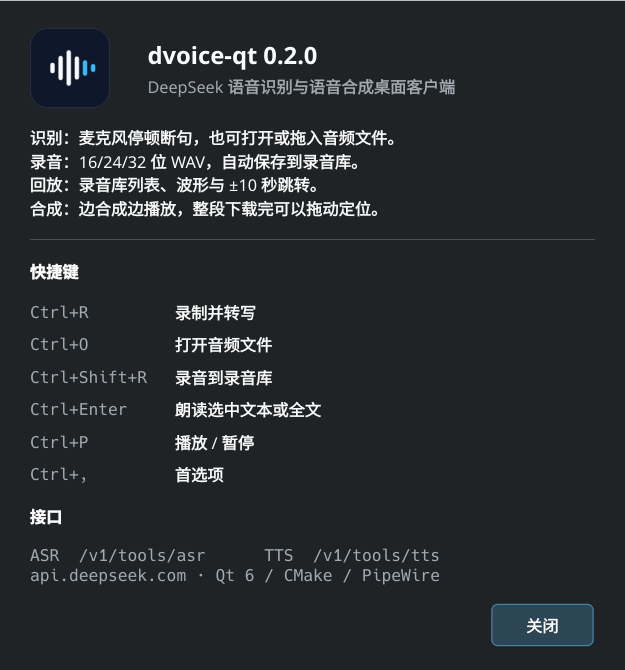
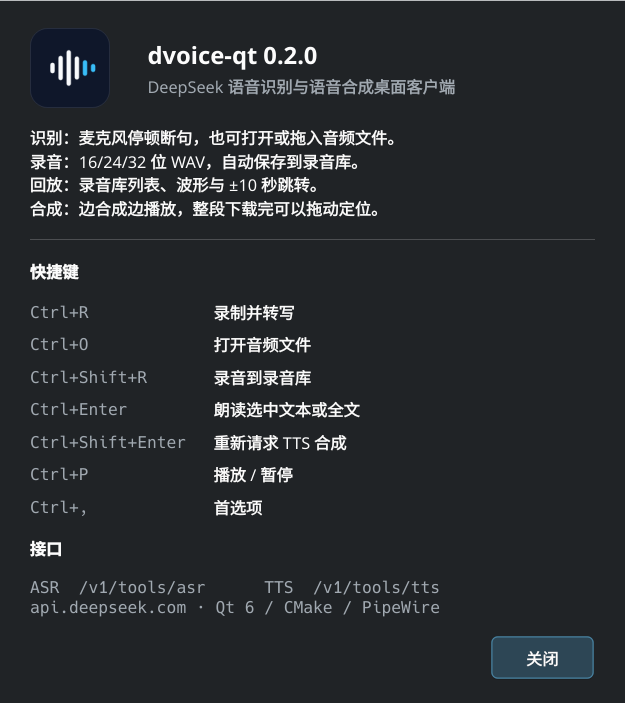
Fix TTS playback glitches and add explicit resynthesize
- Guard flushWrites against synchronous stateChanged reentrancy that
  duplicated audio and left a trailing byte, causing noise bursts/hangs
- Frame-aligned writes, 250ms prebuffer, 600ms sink buffer, optional
  DV_DEBUG_AUDIO tracing
- Add a visible 重新合成 button and Ctrl+Shift+Enter action that discards
  the current audio and requests TTS again

diff --git a/src/core/player.cpp b/src/core/player.cpp
@@ -3,12 +3,44 @@
 #include <QAudioFormat>
 #include <QAudioSink>
 #include <QBuffer>
+#include <QTextStream>
 #include <QTimer>
 
 namespace {
 constexpr int kSampleRate = 24000;
 constexpr int kChannels = 1;
 constexpr int kBytesPerMs = kSampleRate * kChannels * 2 / 1000; // 48
+constexpr int kFrameBytes = kChannels * 2;
+constexpr int kPrebufferMs = 250;
+constexpr int kSinkBufferMs = 600;
+
+bool audioTraceEnabled()
+{
+    static const bool enabled = qEnvironmentVariableIsSet("DV_DEBUG_AUDIO");
+    return enabled;
+}
+
+void trace(const QString &message)
+{
+    if (!audioTraceEnabled())
+        return;
+    QTextStream(stderr) << "[audio] " << message << '\n';
+}
+
+QString stateName(QAudio::State state)
+{
+    switch (state) {
+    case QAudio::ActiveState:
+        return QStringLiteral("active");
+    case QAudio::SuspendedState:
+        return QStringLiteral("suspended");
+    case QAudio::StoppedState:
+        return QStringLiteral("stopped");
+    case QAudio::IdleState:
+        return QStringLiteral("idle");
+    }
+    return QStringLiteral("?");
+}
 
 QAudioFormat pcmFormat()
 {
@@ -110,6 +142,7 @@ void Player::play(const QString &text, const tts::Request &request)
     m_writeBuffer.clear();
     m_streaming = true;
     m_started = false;
+    m_flushing = false;
     setState(State::Buffering);
     m_timer->start();
     startChunk();
@@ -134,16 +167,22 @@ void Player::onAudio(const QByteArray &data)
         return;
 
     m_pcm.append(data);
+    trace(QStringLiteral("chunk %1 · pcm=%2 · pending(before)=%3")
+              .arg(data.size()).arg(m_pcm.size()).arg(m_writeBuffer.size()));
     if (!m_networkDone)
         m_durationMs = 0;
     m_writeBuffer.append(data);
     emit audioChunk(data);
 
-    if (!m_sink)
+    const qint64 prebufferBytes = qint64(kBytesPerMs) * kPrebufferMs;
+    if (!m_sink && (m_networkDone || m_pcm.size() >= prebufferBytes)) {
+        trace(QStringLiteral("start playback after %1 bytes").arg(m_pcm.size()));
         ensureSink();
-    flushWrites();
+    }
+    if (m_sink)
+        flushWrites();
 
-    if (m_state == State::Buffering && m_sink)
+    if (m_state == State::Buffering && m_sink && m_started)
         setState(State::Playing);
 }
 
@@ -164,6 +203,12 @@ void Player::onChunkFinished()
         stopSink();
         return;
     }
+    if (!m_sink)
+        ensureSink();
+    if (m_sink)
+        flushWrites();
+    if (m_state == State::Buffering && m_sink && m_started)
+        setState(State::Playing);
     checkDone();
 }
 
@@ -188,13 +233,24 @@ void Player::fail(const QString &message)
 
 void Player::ensureSink()
 {
+    if (m_sink)
+        return;
+
     QAudioFormat format = pcmFormat();
     m_sink = m_device.isNull() ? new QAudioSink(format, this)
                                : new QAudioSink(m_device, format, this);
     m_sink->setVolume(m_volume);
+    m_sink->setBufferSize(format.bytesForDuration(kSinkBufferMs * 1000));
     connect(m_sink, &QAudioSink::stateChanged, this, [this](QAudio::State state) {
         if (m_stopping)
             return;
+        trace(QStringLiteral("sink %1 · err=%2 · netDone=%3 · written=%4/%5 · pending=%6")
+                  .arg(stateName(state))
+                  .arg(int(m_sink->error()))
+                  .arg(m_networkDone)
+                  .arg(m_written)
+                  .arg(m_pcm.size())
+                  .arg(m_writeBuffer.size()));
         if (state == QAudio::StoppedState && m_sink->error() != QAudio::NoError) {
             fail(QStringLiteral("播放设备错误：%1").arg(m_device.isNull()
                                                             ? QStringLiteral("系统默认")
@@ -208,28 +264,43 @@ void Player::ensureSink()
                 finishPlayback();
                 return;
             }
+            if (state == QAudio::IdleState && !m_networkDone && m_writeBuffer.isEmpty())
+                trace(QStringLiteral("underrun while network is still streaming"));
+            flushWrites();
             checkDone();
         }
     });
 
     m_sinkIo = m_sink->start();
     m_started = m_sinkIo != nullptr;
-    if (!m_started) {
+    trace(QStringLiteral("sink start · ok=%1 · requestedBuffer=%2 · actualBuffer=%3")
+              .arg(m_started)
+              .arg(format.bytesForDuration(kSinkBufferMs * 1000))
+              .arg(m_sink->bufferSize()));
+    if (!m_started)
         fail(QStringLiteral("无法打开扬声器"));
-    }
 }
 
 void Player::flushWrites()
 {
-    if (!m_streaming || !m_sinkIo)
+    if (!m_streaming || !m_sinkIo || m_flushing)
         return;
-    while (!m_writeBuffer.isEmpty()) {
-        const qint64 accepted = m_sinkIo->write(m_writeBuffer);
+    m_flushing = true;
+    while (m_sinkIo && m_writeBuffer.size() >= kFrameBytes) {
+        const int available = m_writeBuffer.size() & ~(kFrameBytes - 1);
+        const qint64 accepted = m_sinkIo->write(m_writeBuffer.constData(), available);
         if (accepted <= 0)
             break;
+        if (accepted != available || (accepted % kFrameBytes) != 0) {
+            trace(QStringLiteral("write %1/%2 accepted · frameMisaligned=%3")
+                      .arg(accepted)
+                      .arg(available)
+                      .arg(accepted % kFrameBytes != 0));
+        }
         m_written += accepted;
         m_writeBuffer.remove(0, int(accepted));
     }
+    m_flushing = false;
 }
 
 void Player::checkDone()
@@ -270,6 +341,7 @@ void Player::stopSink()
         m_buffer = nullptr;
     }
     m_started = false;
+    m_flushing = false;
 }
 
 void Player::stop()

diff --git a/src/mainwindow.cpp b/src/mainwindow.cpp
@@ -176,6 +176,12 @@ void MainWindow::buildActions()
     m_speakAction->setShortcut(QKeySequence(QStringLiteral("Ctrl+Return")));
     m_speakAction->setToolTip(shortcutText(QStringLiteral("朗读选中文本或全文 (Ctrl+Enter)")));
 
+    m_respeakAction = new QAction(theme::icon(QStringLiteral("refresh")),
+                                  QStringLiteral("重新合成"), this);
+    m_respeakAction->setShortcut(QKeySequence(QStringLiteral("Ctrl+Shift+Return")));
+    m_respeakAction->setToolTip(
+        shortcutText(QStringLiteral("用当前文本重新请求 TTS 合成 (Ctrl+Shift+Enter)")));
+
     m_playAction = new QAction(theme::icon(QStringLiteral("play")), QStringLiteral("播放"), this);
     m_playAction->setShortcut(QKeySequence(QStringLiteral("Ctrl+P")));
     m_playAction->setToolTip(shortcutText(QStringLiteral("播放 / 暂停 (Ctrl+P)")));
@@ -223,6 +229,13 @@ void MainWindow::buildUi()
     playButton->setFixedSize(38, 38);
     playButton->setToolButtonStyle(Qt::ToolButtonIconOnly);
 
+    auto *respeakButton = new QToolButton(bar);
+    respeakButton->setDefaultAction(m_respeakAction);
+    respeakButton->setToolButtonStyle(Qt::ToolButtonTextBesideIcon);
+    respeakButton->setIconSize(QSize(16, 16));
+    respeakButton->setFixedHeight(32);
+    respeakButton->setAutoRaise(false);
+
     m_time = new QLabel(QStringLiteral("00:00 / --:--"), bar);
     m_time->setFont(QFontDatabase::systemFont(QFontDatabase::FixedFont));
     m_time->setMinimumWidth(112);
@@ -244,6 +257,7 @@ void MainWindow::buildUi()
     m_volume->setToolTip(QStringLiteral("播放音量"));
 
     row->addWidget(playButton);
+    row->addWidget(respeakButton);
     row->addWidget(m_time);
     row->addWidget(m_progress, 1);
     row->addWidget(m_volumeIcon);
@@ -358,6 +372,7 @@ void MainWindow::buildMenus()
     audio->addAction(m_recordAction);
     audio->addAction(m_stopAction);
     audio->addAction(m_speakAction);
+    audio->addAction(m_respeakAction);
     audio->addAction(m_playAction);
     audio->addSeparator();
     auto *libraryRecord = audio->addAction(theme::icon(QStringLiteral("record")),
@@ -399,6 +414,10 @@ void MainWindow::connectSignals()
     });
     connect(m_stopAction, &QAction::triggered, this, &MainWindow::stopEverything);
     connect(m_speakAction, &QAction::triggered, this, &MainWindow::speakText);
+    connect(m_respeakAction, &QAction::triggered, this, &MainWindow::speakText);
+    const auto syncRespeak = [this] { m_respeakAction->setEnabled(m_speakAction->isEnabled()); };
+    connect(m_speakAction, &QAction::changed, this, syncRespeak);
+    syncRespeak();
     connect(m_playAction, &QAction::triggered, this, &MainWindow::togglePlayback);
     connect(m_settingsAction, &QAction::triggered, this, [this] { openPreferences(); });
 

diff --git a/src/preferences.cpp b/src/preferences.cpp
@@ -276,7 +276,7 @@ void showAboutDialog(QWidget *parent)
     QDialog dialog(parent);
     dialog.setWindowTitle(QStringLiteral("关于 dvoice-qt"));
     dialog.setModal(true);
-    dialog.resize(500, 430);
+    dialog.resize(500, 450);
 
     auto *icon = new QLabel;
     icon->setPixmap(theme::appIcon().pixmap(64, 64));
@@ -328,6 +328,7 @@ void showAboutDialog(QWidget *parent)
         {QStringLiteral("Ctrl+O"), QStringLiteral("打开音频文件")},
         {QStringLiteral("Ctrl+Shift+R"), QStringLiteral("录音到录音库")},
         {QStringLiteral("Ctrl+Enter"), QStringLiteral("朗读选中文本或全文")},
+        {QStringLiteral("Ctrl+Shift+Enter"), QStringLiteral("重新请求 TTS 合成")},
         {QStringLiteral("Ctrl+P"), QStringLiteral("播放 / 暂停")},
         {QStringLiteral("Ctrl+,"), QStringLiteral("首选项")},
     };

diff --git a/src/mainwindow.h b/src/mainwindow.h
@@ -104,6 +104,7 @@ private:
     QAction *m_recordAction = nullptr;
     QAction *m_stopAction = nullptr;
     QAction *m_speakAction = nullptr;
+    QAction *m_respeakAction = nullptr;
     QAction *m_playAction = nullptr;
     QAction *m_settingsAction = nullptr;
 

diff --git a/src/core/player.h b/src/core/player.h
@@ -90,6 +90,7 @@ private:
     bool m_streaming = true;
     bool m_networkDone = false;
     bool m_started = false;
+    bool m_flushing = false;
     bool m_stopping = false;
     qint64 m_baseMs = 0;
     qint64 m_frozenPosition = 0;
